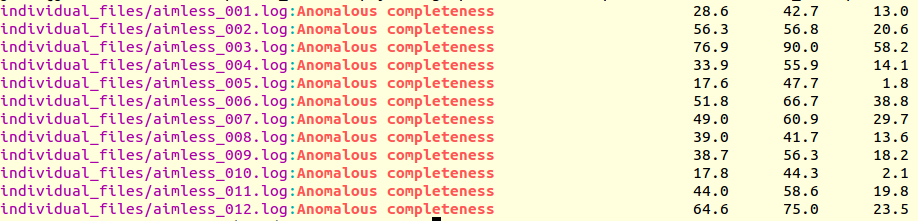
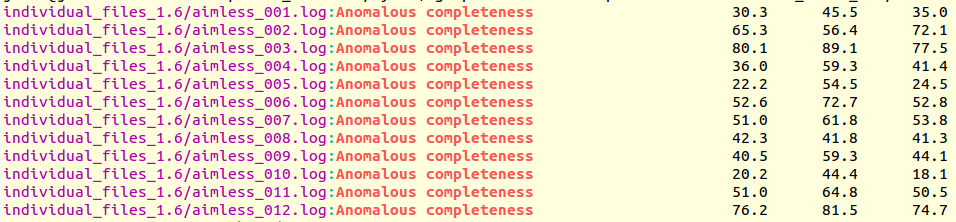
- CHANGES IN VERSION 0.5.11 - 14/12/2014 - Fixed a bug in keywords management. Now accepting both uppercase and lowercase.

diff --git a/additional_material/BLEND_tutorial.html b/additional_material/BLEND_tutorial.html
@@ -1609,11 +1609,10 @@ interface, but the user
 <P>
  <FONT SIZE=4>
  From the "Completeness" column we can see that the only complete data set is data set 3. Its resolution, as suggested by the
- "Reso CC1/2" and "Reso Mn(I/sd)" columns is around 1.65 &#197. Resolutions are higher for the other partial data sets and it
- seems reasonable to push resolution for combined data at 1.6 &#197. Let us, therefore, run BLEND in synthesis mode to produce
- merged data for all nodes of the dendrogram at this resolution. The corresponding line to add to the BLEND keywords file is
- "RESO HIGH 1.6". We also want to turn anomalous handling of data on in <I>AIMLESS</I>, as we would like to use scaled data
- for subsequent phasing. In the end, the updated "bkeys.dat" looks like this:
+ "Reso CC1/2" and "Reso Mn(I/sd)" columns falls between 1.64 &#197 and 1.75 &#197. Resolutions are higher for the other partial data sets and it
+ seems reasonable to adopt 1.6 &#197 as a common resolution for all data. The previous table can be reproduced using this resolution if the 
+ keywords file includes the following lines ("ANOMALOUS ON" has been added to make sure AIMLESS treats Friedel's opposites separately and that it returns
+ the corresponding anomalous statistics):
  </FONT>
 </P>
 <P>
@@ -1625,7 +1624,86 @@ interface, but the user
 </P>
 <P>
  <FONT SIZE=4>
- Then we execute BLEND as follows (the value 10 is high enough in the dendrogram to include all nodes):
+ The corresponding table is:
+ </FONT>
+</P>
+<P>
+ <FONT SIZE=4>
+  <table style="width:800px">
+   <tr>
+    <td><FONT COLOR="#0000ff">Group</FONT></td>
+    <td></td>
+    <td></td>
+    <td><FONT COLOR="0000ff">Comple-</FONT></td>
+    <td><FONT COLOR="0000ff">Multi-</FONT></td>
+    <td><FONT COLOR="0000ff">Reso</FONT></td>
+    <td><FONT COLOR="0000ff">Reso</FONT></td>
+    <td><FONT COLOR="0000ff">Reso</FONT></td>
+   </tr>
+   <tr>
+    <td><FONT COLOR="#0000ff">Number</FONT></td>
+    <td><FONT COLOR="#0000ff">Rmeas</FONT></td>
+    <td><FONT COLOR="#0000ff">Rpim</FONT></td>
+    <td><FONT COLOR="#0000ff">teness</FONT></td>
+    <td><FONT COLOR="#0000ff">plicity</FONT></td>
+    <td><FONT COLOR="#0000ff">CC1/2</FONT></td>
+    <td><FONT COLOR="#0000ff">Mn(I/sd)</FONT></td>
+    <td><FONT COLOR="#0000ff">Max</FONT></td>
+   </tr>
+   <tr>
+    <td>1</td>    <td>0.067</td>    <td>0.041</td>    <td>70.90</td>       <td>1.90</td>     <td>1.60</td>      <td>1.60</td>     <td>1.60</td>
+   </tr>
+   <tr>
+    <td>2</td>    <td>0.070</td>    <td>0.036</td>    <td>73.30</td>       <td>3.10</td>     <td>1.60</td>      <td>1.60</td>     <td>1.60</td>
+   </tr>
+   <tr>
+    <td>3</td>    <td>0.213</td>    <td>0.078</td>    <td>94.70</td>       <td>5.80</td>     <td>1.60</td>      <td>1.76</td>     <td>1.60</td>
+   </tr>
+   <tr>
+    <td>4</td>    <td>0.082</td>    <td>0.044</td>    <td>75.20</td>       <td>2.50</td>     <td>1.60</td>      <td>1.60</td>     <td>1.60</td>
+   </tr>
+   <tr>
+    <td>5</td>    <td>0.066</td>    <td>0.043</td>    <td>84.30</td>       <td>1.70</td>     <td>1.60</td>      <td>1.60</td>     <td>1.60</td>
+   </tr>
+   <tr>
+    <td>6</td>    <td>0.196</td>    <td>0.122</td>    <td>85.50</td>       <td>2.00</td>     <td>1.60</td>      <td>1.84</td>     <td>1.60</td>
+   </tr>
+   <tr>
+    <td>7</td>    <td>0.176</td>    <td>0.106</td>    <td>71.10</td>       <td>2.20</td>     <td>1.60</td>      <td>1.60</td>     <td>1.60</td>
+   </tr>
+   <tr>
+    <td>8</td>    <td>0.052</td>    <td>0.031</td>    <td>60.90</td>       <td>2.20</td>     <td>1.60</td>      <td>1.60</td>     <td>1.60</td>
+   </tr>
+   <tr>
+    <td>9</td>    <td>0.120</td>    <td>0.081</td>    <td>82.30</td>       <td>1.70</td>     <td>1.60</td>      <td>1.60</td>     <td>1.60</td>
+   </tr>
+   <tr>
+    <td>10</td>   <td>0.367</td>    <td>0.248</td>    <td>79.30</td>       <td>1.60</td>     <td>1.89</td>      <td>2.04</td>     <td>1.60</td>
+   </tr>
+   <tr>
+    <td>11</td>   <td>0.081</td>    <td>0.051</td>    <td>81.30</td>       <td>2.00</td>     <td>1.60</td>      <td>1.60</td>     <td>1.60</td>
+   </tr>
+   <tr>
+    <td>12</td>   <td>0.075</td>    <td>0.042</td>    <td>90.40</td>       <td>2.70</td>     <td>1.60</td>      <td>1.60</td>     <td>1.60</td>
+   </tr>
+  </table>
+ </FONT>
+</P>
+<P>
+ <FONT SIZE=4>
+ The newly created "combined_files" directory can be renamed "individual_files_1.6", to differentiate it from "individual_files":
+ </FONT>
+</P>
+<P ALIGN=CENTER>
+ <FONT SIZE=4 COLOR="#008000">
+  mv combined_files individual_files_1.6
+ </FONT>
+</P>
+<P>
+ <FONT SIZE=4>
+ Next, BLEND is executed in synthesis mode using the same keywords file, to produce
+ merged data for all nodes of the dendrogram at this resolution. As a value of 10 is high enough to
+ include all nodes of the dendrogram, the resulting command line will result as follows:
  </FONT>
 </P>
 <P ALIGN=CENTER>
@@ -1660,10 +1738,10 @@ interface, but the user
 </P>
 <P>
  <FONT SIZE=4>
- It is immediately seen that clusters with satisfactory anomalous completeness are 5, 6, 7, 9, 10, 11
+ Clusters with satisfactory anomalous completeness are 5, 6, 7, 9, 10, 11
  (greater than 90%). These are data sets on
- which we can try the procedure to find heavy atoms substructure. These files will have to be compared with the only individual
- data set with the highest anomalous completeness, data set 3. A "grep" line similar to the one previously used can show this:
+ which we can try the procedure to find heavy atoms substructure. These files can be compared with the two individual
+ data sets with the highest anomalous completeness, data set 3 and data set 12. A "grep" line similar to the one previously used can show this:
  </FONT>
 </P>
 <P ALIGN=CENTER>
@@ -1682,8 +1760,8 @@ interface, but the user
 </P>
 <P>
  <FONT SIZE=4>
- The value of 76.9% for the anomalous completeness of data set 3 is nowhere near an acceptable 90%, but it's the only decent one
- obtainable with indvidual data sets, and it is with this one that all merged ones will have to be compared. The message
+ Values 80.1% and 76.2% for the anomalous completeness of data sets 3 and 12 are not close to 90%, but the only decent ones
+ obtainable with indvidual data sets, and it is with these that all merged ones will have to be compared. The message
  to be taken home is that when only partial data are available it is still possible to combine them and obtain a complete data set,
  rather than wait for new crystals and another data collection. Furthermore, the redundancy implied by merging data together can
  increase the anomalous signal and, thus, strengthen the phasing power.<br>
@@ -1700,6 +1778,7 @@ interface, but the user
  mkdir anoproc<br>
  cd anoproc<br>
  mkdir lysBr_ind_003<br>
+ mkdir lysBr_ind_012<br>
  mkdir lysBr_005<br>
  mkdir lysBr_006<br>
  mkdir lysBr_007<br>
@@ -1710,8 +1789,8 @@ interface, but the user
 </P>
 <P>
  <FONT SIZE=4>
- The procedure to produce sca files ready to be used in <I>SHELX</I> will be now shown only for one of the data sets involved, data set 6,
- but it is meant to be repeated in exactly the same way for all other data sets. First we move to directory "lysBr_006". Then we run
+ The procedure to produce sca files ready to be used in <I>SHELX</I> will be now shown only for one of the data sets involved, the one corresponding 
+ to cluster 6, but it is meant to be repeated in exactly the same way for all other data sets. First we move to directory "lysBr_006". Then we run
  <I>TRUNCATE</I>, using command lines, in the following way:
  </FONT>
 </P>
@@ -1752,33 +1831,39 @@ interface, but the user
    <td><FONT COLOR="#0000ff">Cfom</FONT></td>
   </tr>
   <tr>
-   <td> ind_003 </td> <td> yes (?) </td> <td> yes </td> <td>30.37</td> <td>15.47</td> <td>45.85</td> 
+   <td> ind_003 </td> <td> yes (-) </td> <td> yes (-) </td> <td>33.68</td> <td>15.34</td> <td>49.02</td> 
   </tr>
   <tr>
-   <td> 005 </td> <td> yes </td> <td> yes </td> <td>43.64</td> <td>26.23</td> <td>69.87</td> 
+   <td> ind_012 </td> <td> yes </td> <td> yes </td> <td>43.52</td> <td>25.45</td> <td>68.97</td> 
   </tr>
   <tr>
-   <td> 006 </td> <td> yes </td> <td> yes </td> <td>37.24</td> <td>22.07</td> <td>59.31</td> 
+   <td> 005 </td> <td> yes </td> <td> yes </td> <td>45.07</td> <td>24.94</td> <td>70.01</td> 
   </tr>
   <tr>
-   <td> 007 </td> <td> yes </td> <td> yes </td> <td>43.05</td> <td>25.97</td> <td>69.02</td> 
+   <td> 006 </td> <td> yes </td> <td> yes </td> <td>37.17</td> <td>19.07</td> <td>56.25</td> 
   </tr>
   <tr>
-   <td> 009 </td> <td> yes </td> <td> yes </td> <td>34.96</td> <td>18.59</td> <td>53.54</td> 
+   <td> 007 </td> <td> yes </td> <td> yes </td> <td>44.72</td> <td>26.03</td> <td>70.75</td> 
   </tr>
   <tr>
-   <td> 010 </td> <td> yes </td> <td> yes </td> <td>44.68</td> <td>27.25</td> <td>71.92</td> 
+   <td> 009 </td> <td> yes </td> <td> yes </td> <td>36.78</td> <td>18.05</td> <td>54.83</td> 
   </tr>
   <tr>
-   <td> 011 </td> <td> yes </td> <td> yes </td> <td>42.59</td> <td>25.57</td> <td>68.16</td> 
+   <td> 010 </td> <td> yes </td> <td> yes </td> <td>45.68</td> <td>26.01</td> <td>71.69</td> 
+  </tr>
+  <tr>
+   <td> 011 </td> <td> yes </td> <td> yes </td> <td>44.25</td> <td>26.60</td> <td>70.85</td> 
   </tr>
  </table>
 </P>
 <P>
  <FONT SIZE=4>
  The phasing power of bromine in a stable structure like lysozyme is clear from the relatively high CCall (> 30)
- for data set "ind_003". It is also clear, though, that the anomalous signal becomes much more effective when multiple
- isomorphous crystals are merged together.
+ for the two individual data sets "ind_003" and "ind_012". The last one shows better anomalous signal and reaches
+ higher values of the combined figure of merit, compared to the first one. It is also clear, though, that the anomalous 
+ signal becomes much more effective when multiple isomorphous crystals are merged together. Complete clusters which includes "ind_003",
+ i.e. cluster 006 and 009, improve the anomalous signal of "ind_003" alone; the same can be said of the complete clusters
+ which include "ind_012", i.e. cluster 005, 007 and 010. This second group of clusters perform better than the other group.
  </FONT>
 </P>
 <br>

diff --git a/src/blend.cpp b/src/blend.cpp
@@ -10,7 +10,9 @@
 /********* included in the root directory of this package.                                          *********/
 /************************************************************************************************************/
 /************************************************************************************************************/
-// CHANGES IN VERSION 0.5.10 - 05/11/2014
+// CHANGES IN VERSION 0.5.11 - 14/12/2014
+// - Fixed a bug in keywords management. Now accepting both uppercase and lowercase.
+// CHANGES IN VERSION 0.5.10 - 12/11/2014
 // - Now only one POINTLESS run and one AIMLESS run are needed for each cluster or group. All input
 //   and output files are retained (no more need of "new_" and "final_" files). Input, output and
 //   keywords for both POINTLESS and AIMLESS runs can be seen inside each POINTLESS or AIMLESS log.
@@ -326,6 +328,7 @@ int main(int argc, char* argv[])
    std::cout << std::endl;
    getline(std::cin, keywdline);
    trim(keywdline);
+   to_upper(keywdline);
    std::cout << keywdline << std::endl;
    if (keywdline.substr(0,3) != "END" && keywdline.substr(0,3) != "GO" && keywdline != "")
    {
@@ -349,6 +352,7 @@ int main(int argc, char* argv[])
     old_keywdline = keywdline;
     getline(std::cin, keywdline);
     trim(keywdline);
+    to_upper(keywdline);
     std::cout << keywdline << std::endl;
     if (keywdline.substr(0,3) != "END" && keywdline.substr(0,3) != "GO" && keywdline != "")
     {
@@ -507,6 +511,7 @@ int main(int argc, char* argv[])
    std::cout << std::endl;
    getline(std::cin, keywdline);
    trim(keywdline);
+   to_upper(keywdline);
    std::cout << keywdline << std::endl;
    if (keywdline.substr(0,3) != "END" && keywdline.substr(0,3) != "GO" && keywdline != "")
    {
@@ -530,6 +535,7 @@ int main(int argc, char* argv[])
     old_keywdline = keywdline;
     getline(std::cin, keywdline);
     trim(keywdline);
+    to_upper(keywdline);
     std::cout << keywdline << std::endl;
     if (keywdline.substr(0,3) != "END" && keywdline.substr(0,3) != "GO" && keywdline != "")
     {
@@ -659,6 +665,7 @@ int main(int argc, char* argv[])
    std::cout << std::endl;
    getline(std::cin, keywdline);
    trim(keywdline);
+   to_upper(keywdline);
    std::cout << keywdline << std::endl;
    if (keywdline.substr(0,3) != "END" && keywdline.substr(0,3) != "GO" && keywdline != "")
    {
@@ -682,6 +689,7 @@ int main(int argc, char* argv[])
     old_keywdline = keywdline;
     getline(std::cin, keywdline);
     trim(keywdline);
+    to_upper(keywdline);
     std::cout << keywdline << std::endl;
     if (keywdline.substr(0,3) != "END" && keywdline.substr(0,3) != "GO" && keywdline != "")
     {
